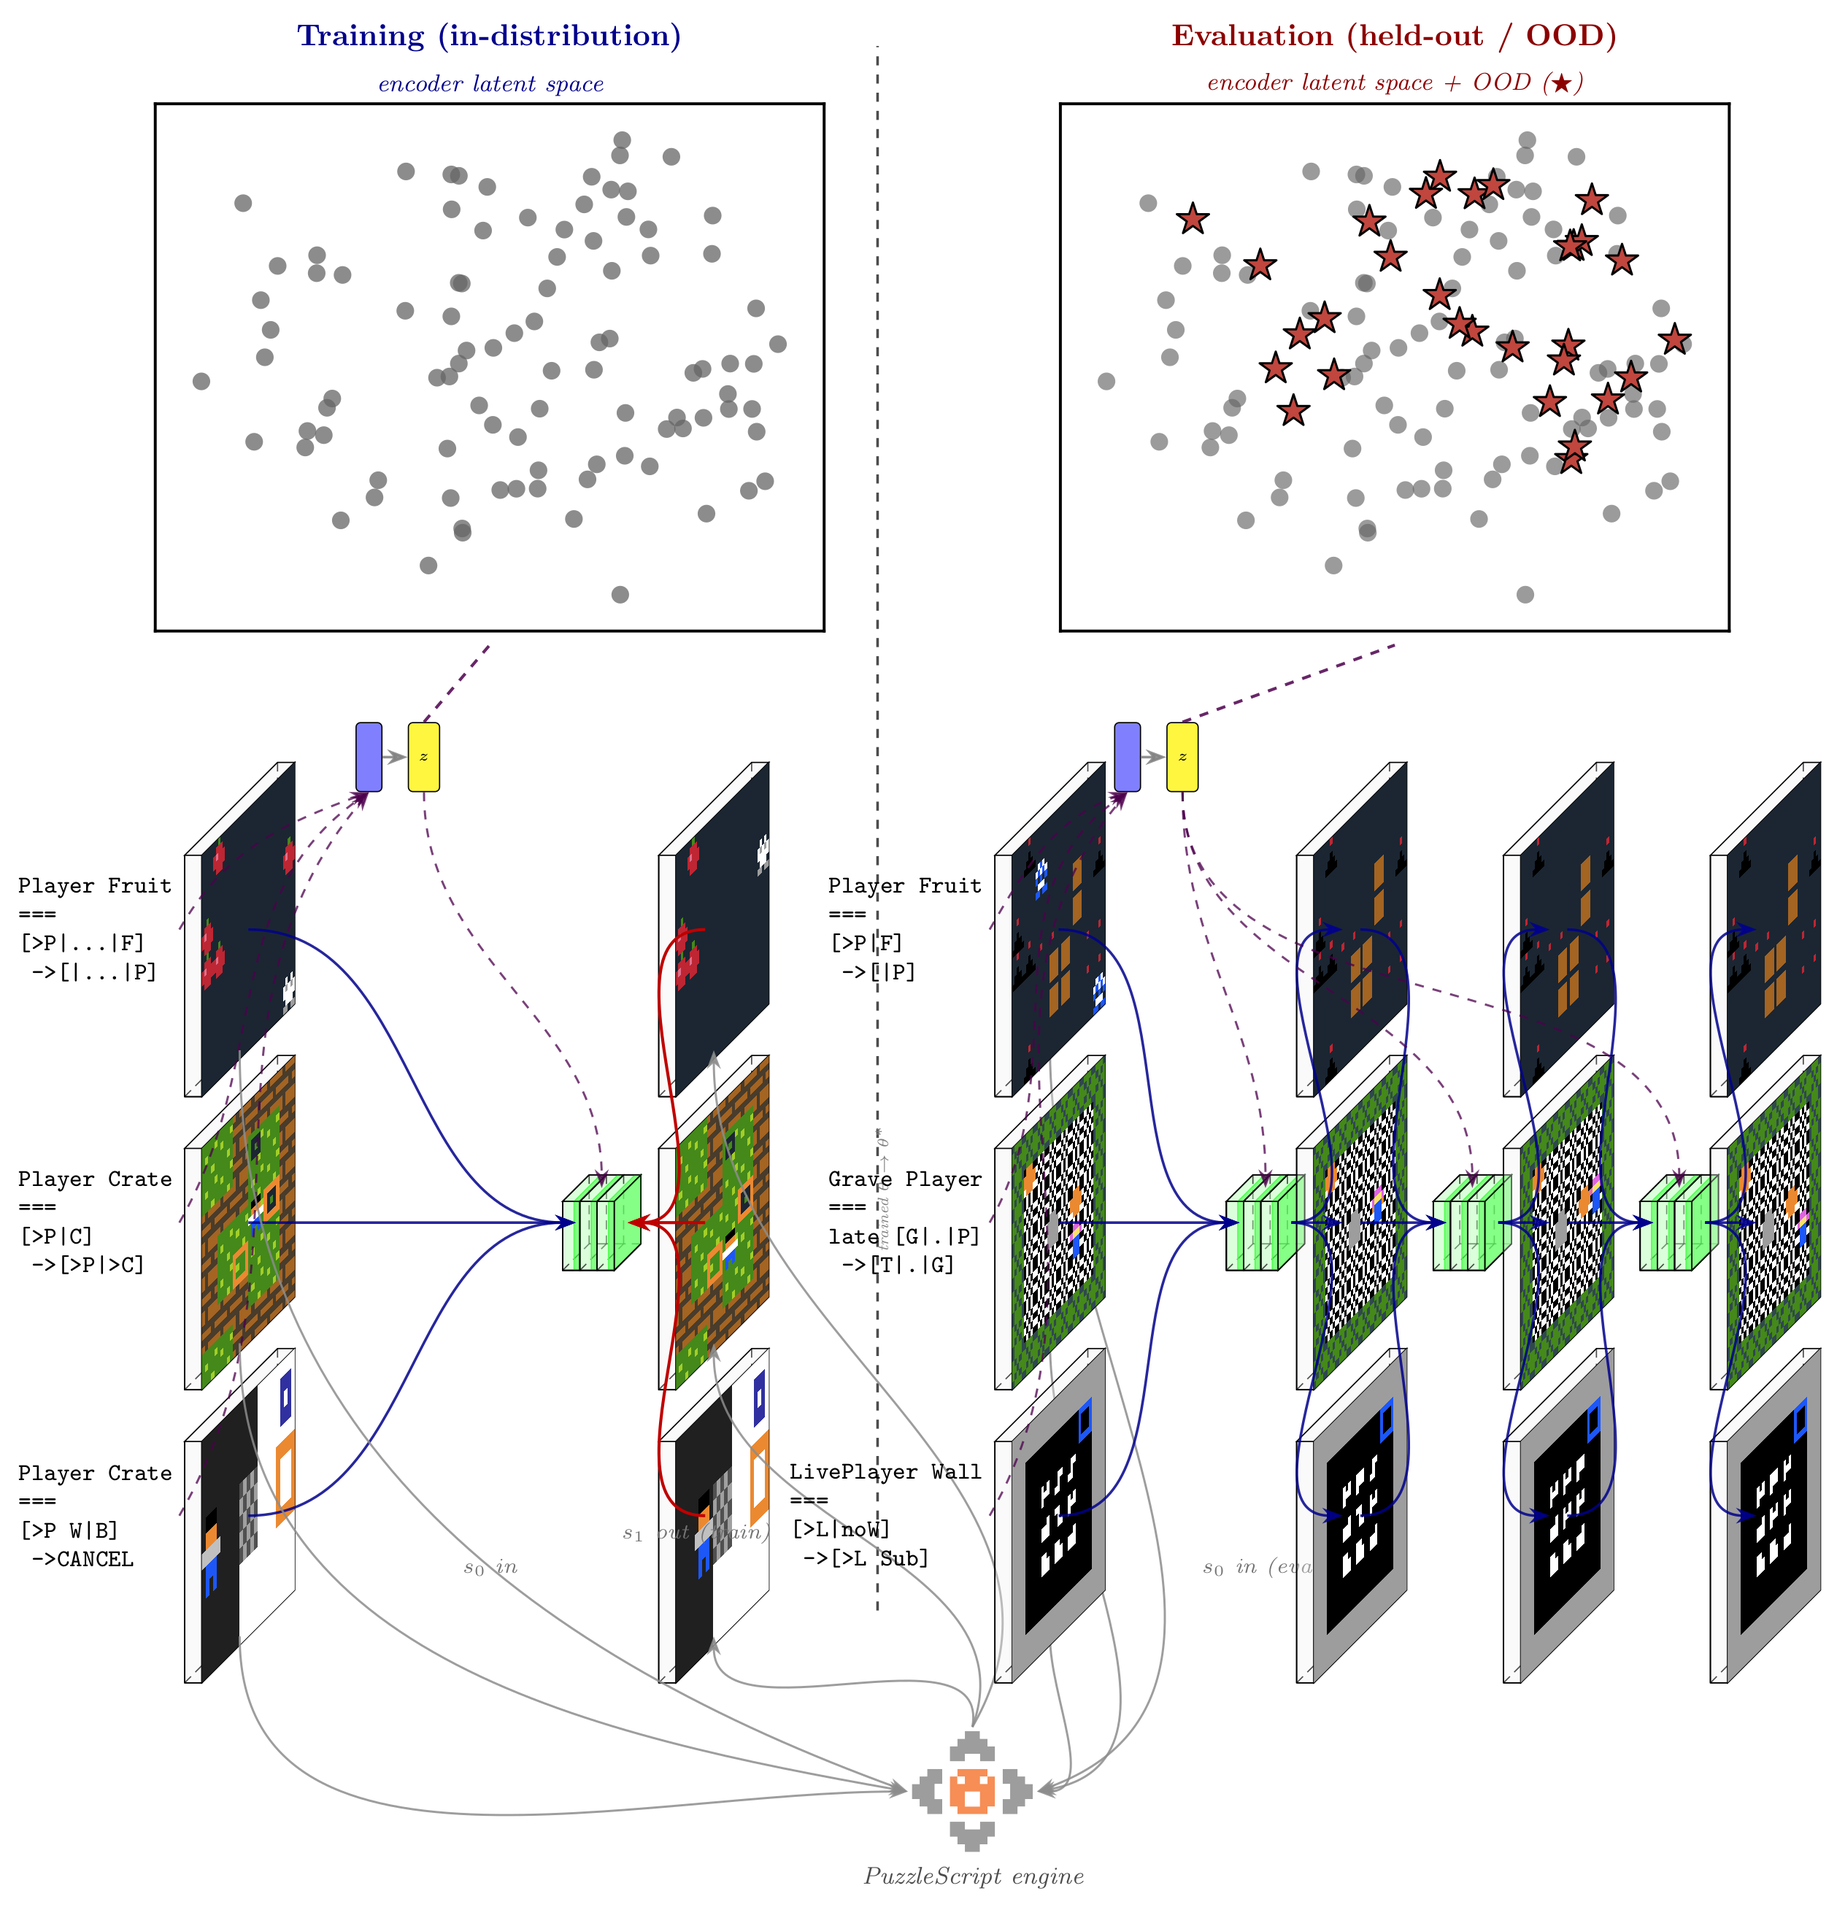
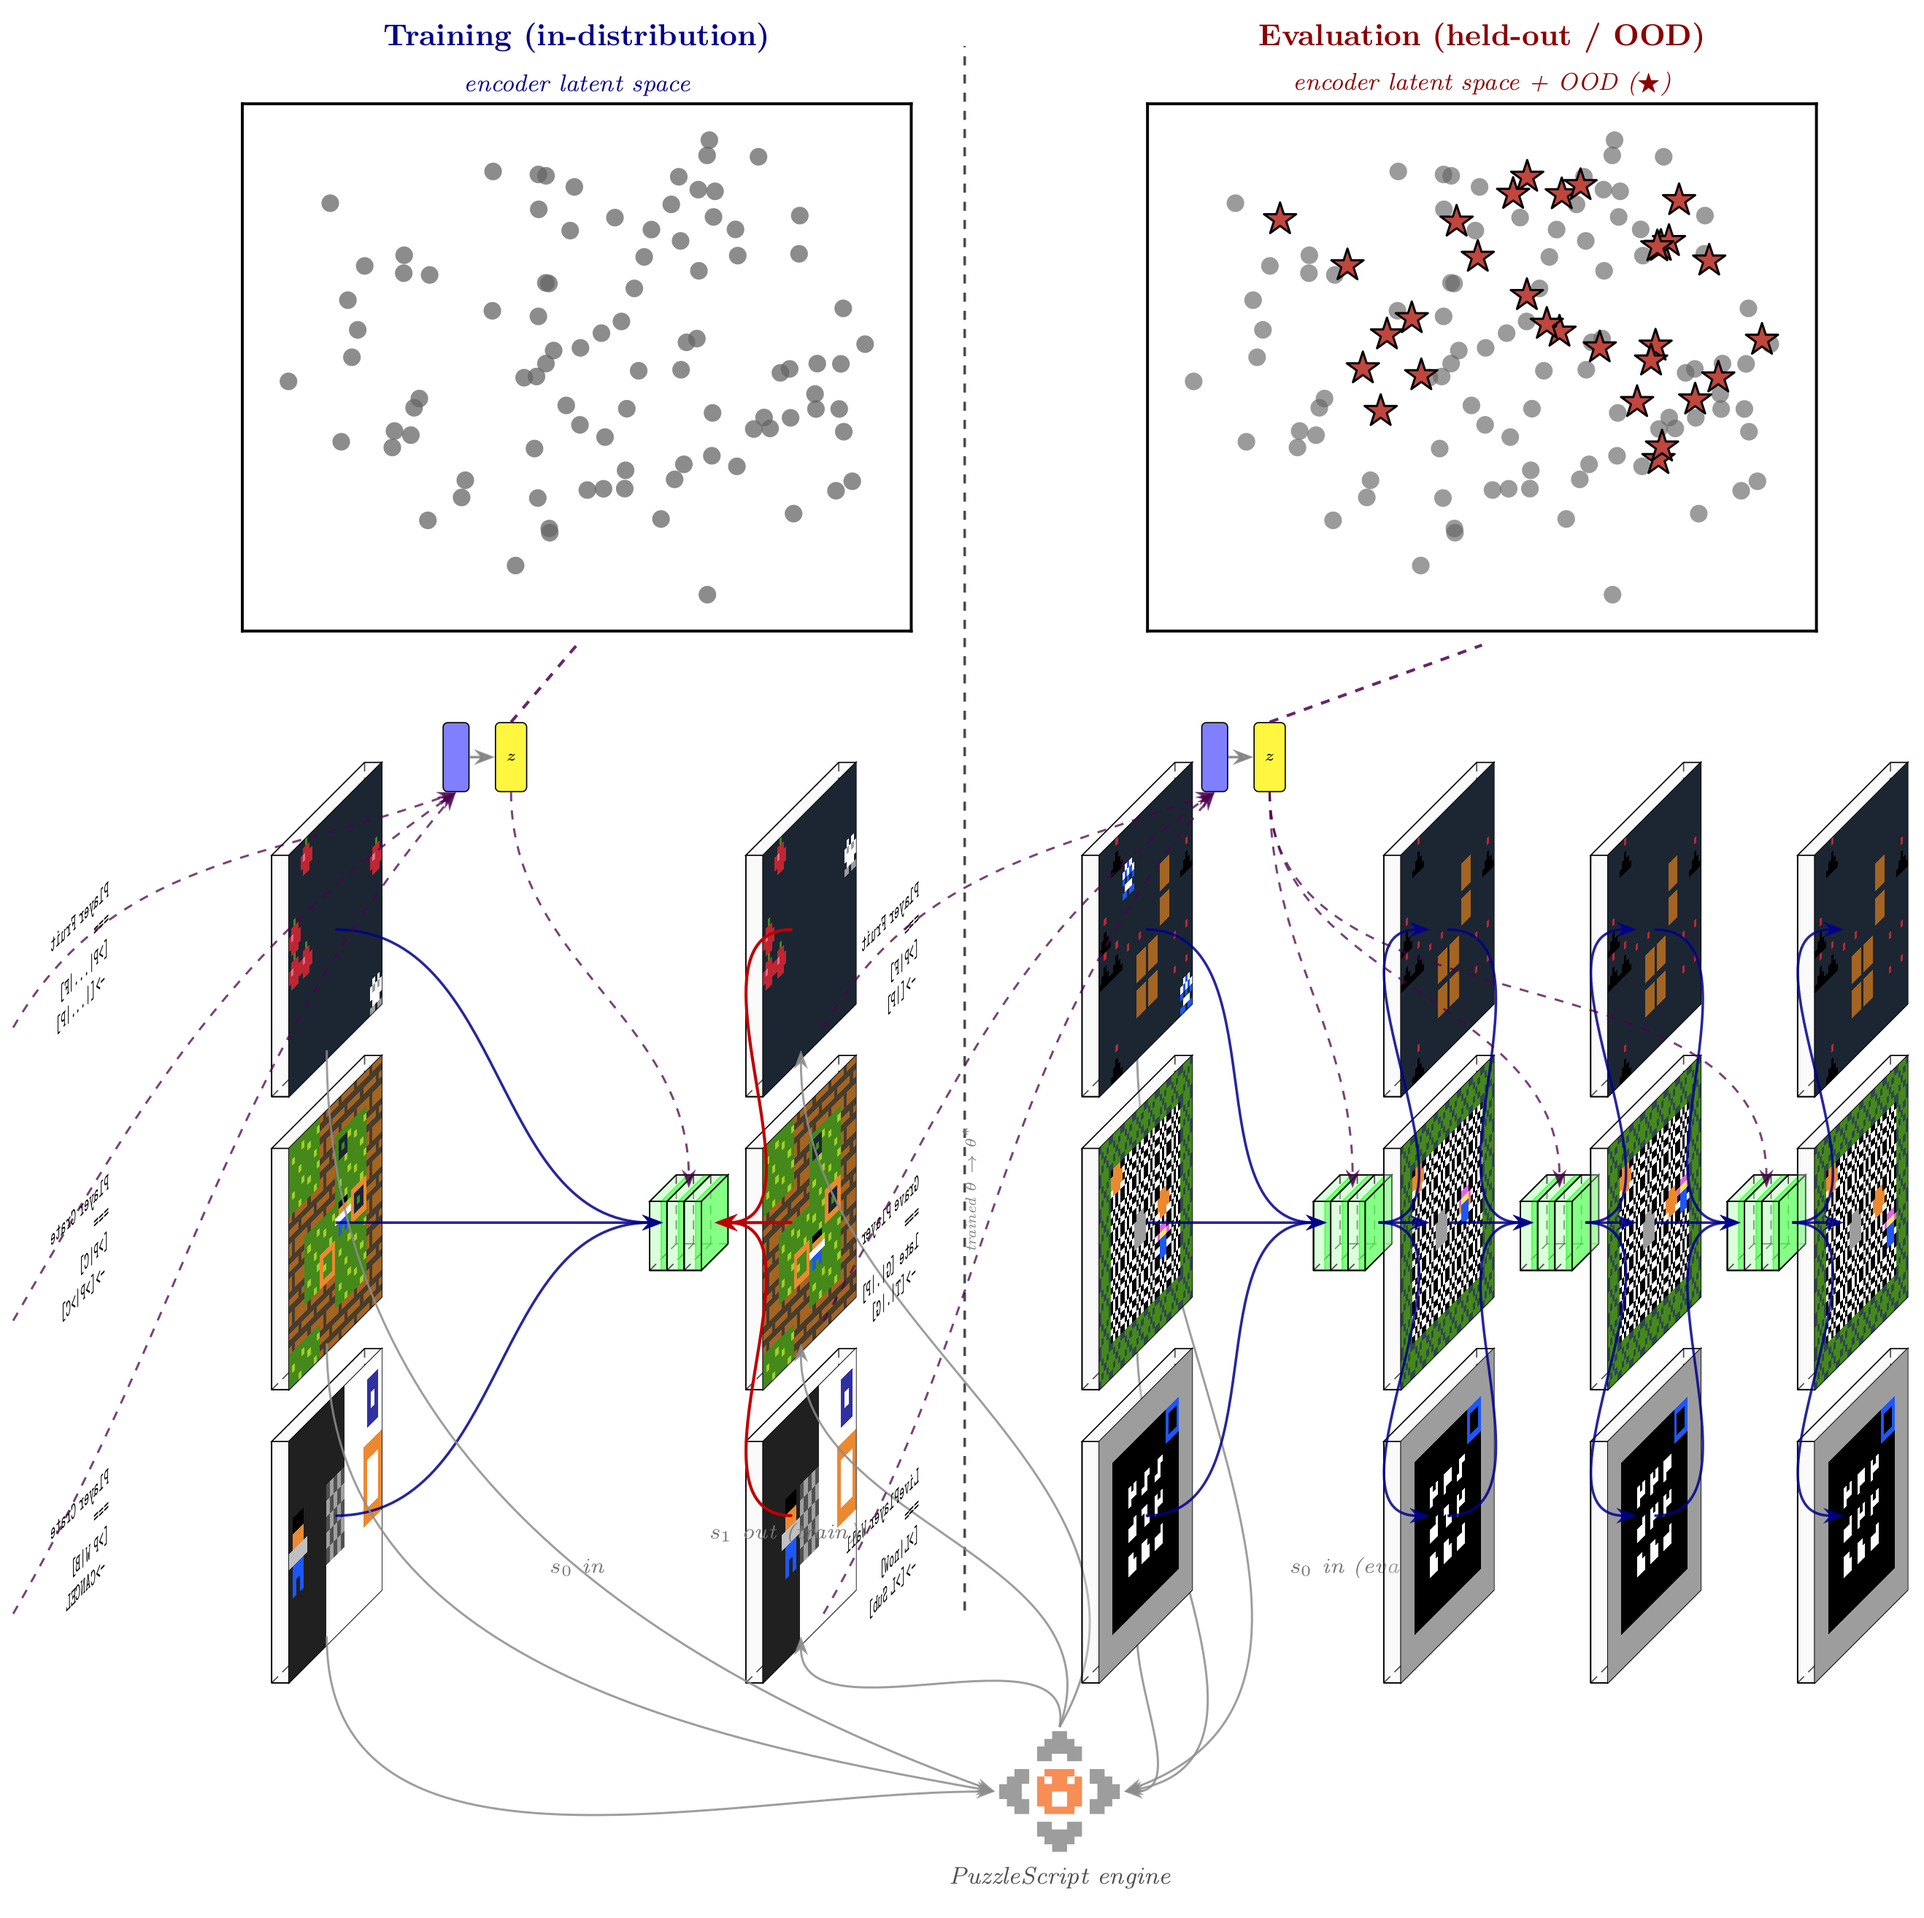
Paper: project code spec on a flat zy plane; move teaser to scaling section
- Code spec text is now projected on a canvas-is-zy-plane node at
  x=state_x-1.0, anchor=west at z=-1.4 — a flat plane (no Box
  wrapper) that picks up the same iso transform as the state image
  on its east face. The spec card now reads as a flat sheet sitting
  next to the state card under one shared 3D projection.
- Teaser figure moved out of intro.tex and into results.tex, sitting
  immediately before the In-distribution / OOD scaling subfigure
  (\\ref{fig:intersection-slope}). Teaser now lands on page 7
  alongside the scaling plots, where the latent-space pitch directly
  precedes the scaling evidence.

diff --git a/nca_wm/paper/sections/intro.tex b/nca_wm/paper/sections/intro.tex
@@ -45,32 +45,13 @@ us measure fidelity cell-by-cell against the engine.
 We train on up to 199 token-distinct human-authored games with between 1-20 rules each.
 For each level of each game, we collect bounded A* transition ($\approx 15$M transitions); held-out evaluation uses \textsc{Heldout-26}, a 26-game stratified sample disjoint from training by token-sequence hash after structural canonicalization.
 
-\begin{figure}[t]
-  \centering
-  \includegraphics[width=\linewidth]{figures/id_ood_teaser/teaser.pdf}
-  \caption{\textbf{We propose to learn a latent space of games
-    conditioned on dynamics, implemented as a rule-conditioned NCA
-    world model.} \emph{Left (training):} for each PuzzleScript game
-    $g$, the engine produces $(s_0, s_1)$ pairs that the NCA-WM is
-    fit to under a per-cell loss; the encoder maps the game's spec
-    text to a latent $z$ that conditions the dynamics. \emph{Right
-    (evaluation, held-out):} on a game the NCA-WM has never seen,
-    only $s_0$ is provided and the trained model is rolled out
-    autoregressively. The PuzzleScript engine (bottom, JavaScript)
-    is the data source for both regimes. The latent-space scatters
-    on top show where each training game (gray) and held-out game
-    (red $\bigstar$) lands in the encoder's slot space; mapping
-    held-outs into the same neighbourhood as training games is the
-    aspirational goal.}
-  \label{fig:id-ood-teaser}
-\end{figure}
-
 We find that:
 \begin{enumerate}
   \item \textbf{NCA dynamics effectively model discrete state transitions.}
         A shared, iteratively-applied local update body operating on the engine's native discrete grid outperforms non-iterative baselines (CNN, U-Net, ViT) on rollout fidelity.
   \item \textbf{Rule-conditioning allows learning multiple games more effectively.}
-        Cross-attending to slot embeddings of each game's tokenized rule text lets a single set of weights cover many games and slows per-game capacity dilution by roughly an order of magnitude as the corpus grows.
-  \item \textbf{Models do not generalize well, and rule conditioning does not help.}
-        Broadening the training corpus closes most of the 1-step gap to the identity baseline on \textsc{Heldout-26}, but the rule encoder shows little advantage over an unconditional baseline at any training scale---suggesting the model is inferring dynamics from level layouts rather than from the explicit rule channel.
+        Cross-attending to slot embeddings of each game's tokenized rule text lets a single set of weights cover many games and slows per-game capacity dilution as the corpus grows.
+  \item \textbf{Scaling training data helps OOD generalization, but the rule encoder does not.}
+        Broadening the training corpus closes most of the 1-step gap to the identity baseline on \textsc{Heldout-26}, but the rule encoder shows little advantage over an unconditional baseline at any training scale.
+        %---suggesting the model is inferring dynamics from level layouts rather than from the explicit rule channel.
 \end{enumerate}

diff --git a/nca_wm/paper/figures/id_ood_teaser/teaser.tex b/nca_wm/paper/figures/id_ood_teaser/teaser.tex
@@ -48,17 +48,20 @@
       {\includegraphics[width=2.8cm,height=2.8cm]{#4}};%
 }
 
-% --- Decoupled pair: a flat code/spec text block (no box, no fill,
-%     just text) LEFT of a 3D state Box. Text is left-aligned,
-%     anchored east at (state_x - 0.5) so it reads naturally toward
-%     the state card.
+% --- Decoupled pair: code/spec text projected on a flat zy plane
+%     LEFT of the state card. No surrounding Box — just the text
+%     sitting on a virtual plane at x = state_x - 1.0, projected with
+%     the same iso transform as the state image's east face. Anchor
+%     west at z=-1.4 so the text starts at the "left edge" of the
+%     imaginary face and reads left-to-right under the iso tilt.
 %
 %     #1 = name base, #2 = state x, #3 = y,
 %     #4 = state image path, #5 = code/spec text body
 \newcommand{\StateOnCode}[5]{%
-  \node[font=\footnotesize\ttfamily, align=left, text=black,
-        inner sep=2pt, anchor=east, name=#1c]
-        at ({#2 - 0.6}, #3) {#5};%
+  \node[canvas is zy plane at x={#2 - 1.0}, font=\footnotesize\ttfamily,
+        align=left, text=black, text width=2.8cm,
+        inner sep=2pt, anchor=west, name=#1c]
+        at (-1.4, #3) {#5};%
   % State box (3D, transparent).
   \pic[shift={(#2, #3, 0)}] at (0,0,0)
       {Box={name=#1g, caption=, xlabel={{,}}, zlabel={},

diff --git a/nca_wm/paper/sections/results.tex b/nca_wm/paper/sections/results.tex
@@ -142,6 +142,26 @@ corpora.
 
 \begin{figure}[t]
   \centering
+  \includegraphics[width=\linewidth]{figures/id_ood_teaser/teaser.pdf}
+  \caption{\textbf{We propose to learn a latent space of games
+    conditioned on dynamics, implemented as a rule-conditioned NCA
+    world model.} \emph{Left (training):} for each PuzzleScript game
+    $g$, the engine produces $(s_0, s_1)$ pairs that the NCA-WM is
+    fit to under a per-cell loss; the encoder maps the game's spec
+    text to a latent $z$ that conditions the dynamics. \emph{Right
+    (evaluation, held-out):} on a game the NCA-WM has never seen,
+    only $s_0$ is provided and the trained model is rolled out
+    autoregressively. The PuzzleScript engine (bottom, JavaScript)
+    is the data source for both regimes. The latent-space scatters
+    on top show where each training game (gray) and held-out game
+    (red $\bigstar$) lands in the encoder's slot space; mapping
+    held-outs into the same neighbourhood as training games is the
+    aspirational goal.}
+  \label{fig:id-ood-teaser}
+\end{figure}
+
+\begin{figure}[t]
+  \centering
   \begin{subfigure}[b]{0.49\linewidth}
     \centering
     \includegraphics[width=\linewidth]{figures/indist_intersection/intersection_slope_id.pdf}
